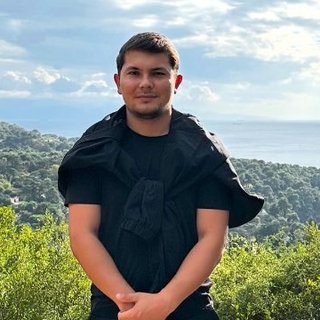
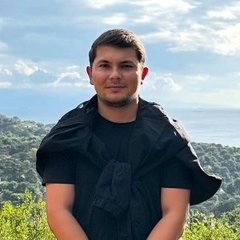
4til: bosh sahifaga muallif (Muzaffar) va rasm qo'shildi
Claude-Session: https://claude.ai/code/session_01EfAFqnqgoVuc6isVhVMtjG

diff --git a/4til/index.html b/4til/index.html
@@ -196,6 +196,10 @@ td.ar{white-space:nowrap}
 .author{display:flex;align-items:center;gap:16px;background:var(--surface);border:1px solid var(--line);border-radius:var(--r);padding:16px 18px;max-width:520px}
 .author img{width:72px;height:72px;border-radius:50%;object-fit:cover;flex:none;border:2px solid var(--accent)}
 .aname{font-family:var(--display);font-weight:700;font-size:1.2rem}
+.author{display:flex;align-items:center;gap:16px;background:var(--surface);border:1px solid var(--line);border-radius:var(--r);padding:14px 18px}
+.author img{width:72px;height:72px;border-radius:50%;object-fit:cover;flex:none;border:2px solid var(--accent)}
+.author div{display:flex;flex-direction:column;gap:2px}
+.author strong{font-family:var(--display);font-size:1.15rem}
 footer{border-top:1px solid var(--line);padding:20px 0 40px;color:var(--muted);font-size:.9rem}
 
 @media (max-width:760px){
@@ -219,7 +223,7 @@ footer{border-top:1px solid var(--line);padding:20px 0 40px;color:var(--muted);f
   </div>
 </header>
 <div class="wrap"><main id="view"></main></div>
-<footer><div class="wrap"><strong>Sayt Muzaffar tomonidan yaratilgan.</strong> Natijalaringiz faqat shu brauzerda saqlanadi. Talaffuz tugmasi qurilmangizdagi ovoz sintezatoridan foydalanadi, shuning uchun ba'zi qurilmalarda arab yoki rus ovozi bo'lmasligi mumkin.</div></footer>
+<footer><div class="wrap"><strong>Sayt Muzaffar tomonidan yaratilgan.</strong> Sayt Muzaffar tomonidan yaratilgan. Natijalaringiz faqat shu brauzerda saqlanadi. Talaffuz tugmasi qurilmangizdagi ovoz sintezatoridan foydalanadi, shuning uchun ba'zi qurilmalarda arab yoki rus ovozi bo'lmasligi mumkin.</div></footer>
 
 <script>
 "use strict";
@@ -656,6 +660,7 @@ function vHome(){
   '<p class="lead">Har bir til uchun darsliklar, '+W.length+' ta so\'z, '+P.length+' ta tayyor ibora va uch variantli testlar. Ingliz tili uchun A1 dan B2 gacha '+LESSONS.en.length+' darslik kurs, IELTS, kinolar va o\'yinlar bor.</p>'+
   '<div class="btns"><a class="btn" href="#darslar">'+L().name+'ni boshlash</a><a class="btn ghost" href="#test">Testni sinab ko\'rish</a></div></div>'+
   '<div class="hello" role="group" aria-label="Tilni tanlang">'+hello+'</div></section>'+
+  '<section class="author"><img src="muzaffar.jpg" alt="Muzaffar" width="72" height="72"><div><small class="eyebrow">Sayt muallifi</small><strong>Muzaffar</strong><p class="lead">Bu sayt Muzaffar tomonidan o\'zbek tilida til o\'rganuvchilar uchun yaratilgan.</p></div></section>'+
   '<section class="author"><img src="muzaffar.jpg" alt="Muzaffar" width="72" height="72"><div><small class="eyebrow">Sayt muallifi</small><div class="aname">Muzaffar</div><p class="lead">Bu sayt Muzaffar tomonidan yaratilgan.</p></div></section>'+'<section class="grid"><h2>'+L().name+' bo\'yicha natijangiz</h2><div class="grid g4">'+
   stat(kl,NL,"O'qilgan darsliklar","darslar")+stat(kw,W.length,"Bilgan so'zlaringiz","lugat")+stat(kp,P.length,"Yodlangan iboralar","iboralar")+
   '<a class="card stat" href="#test" style="text-decoration:none;color:inherit"><small>Testdagi eng yaxshi natija</small><b>'+(best!=null?best+' / 10':'hali yo\'q')+'</b><div class="bar"><i style="width:'+((best||0)*10)+'%"></i></div></a></div></section>'+
